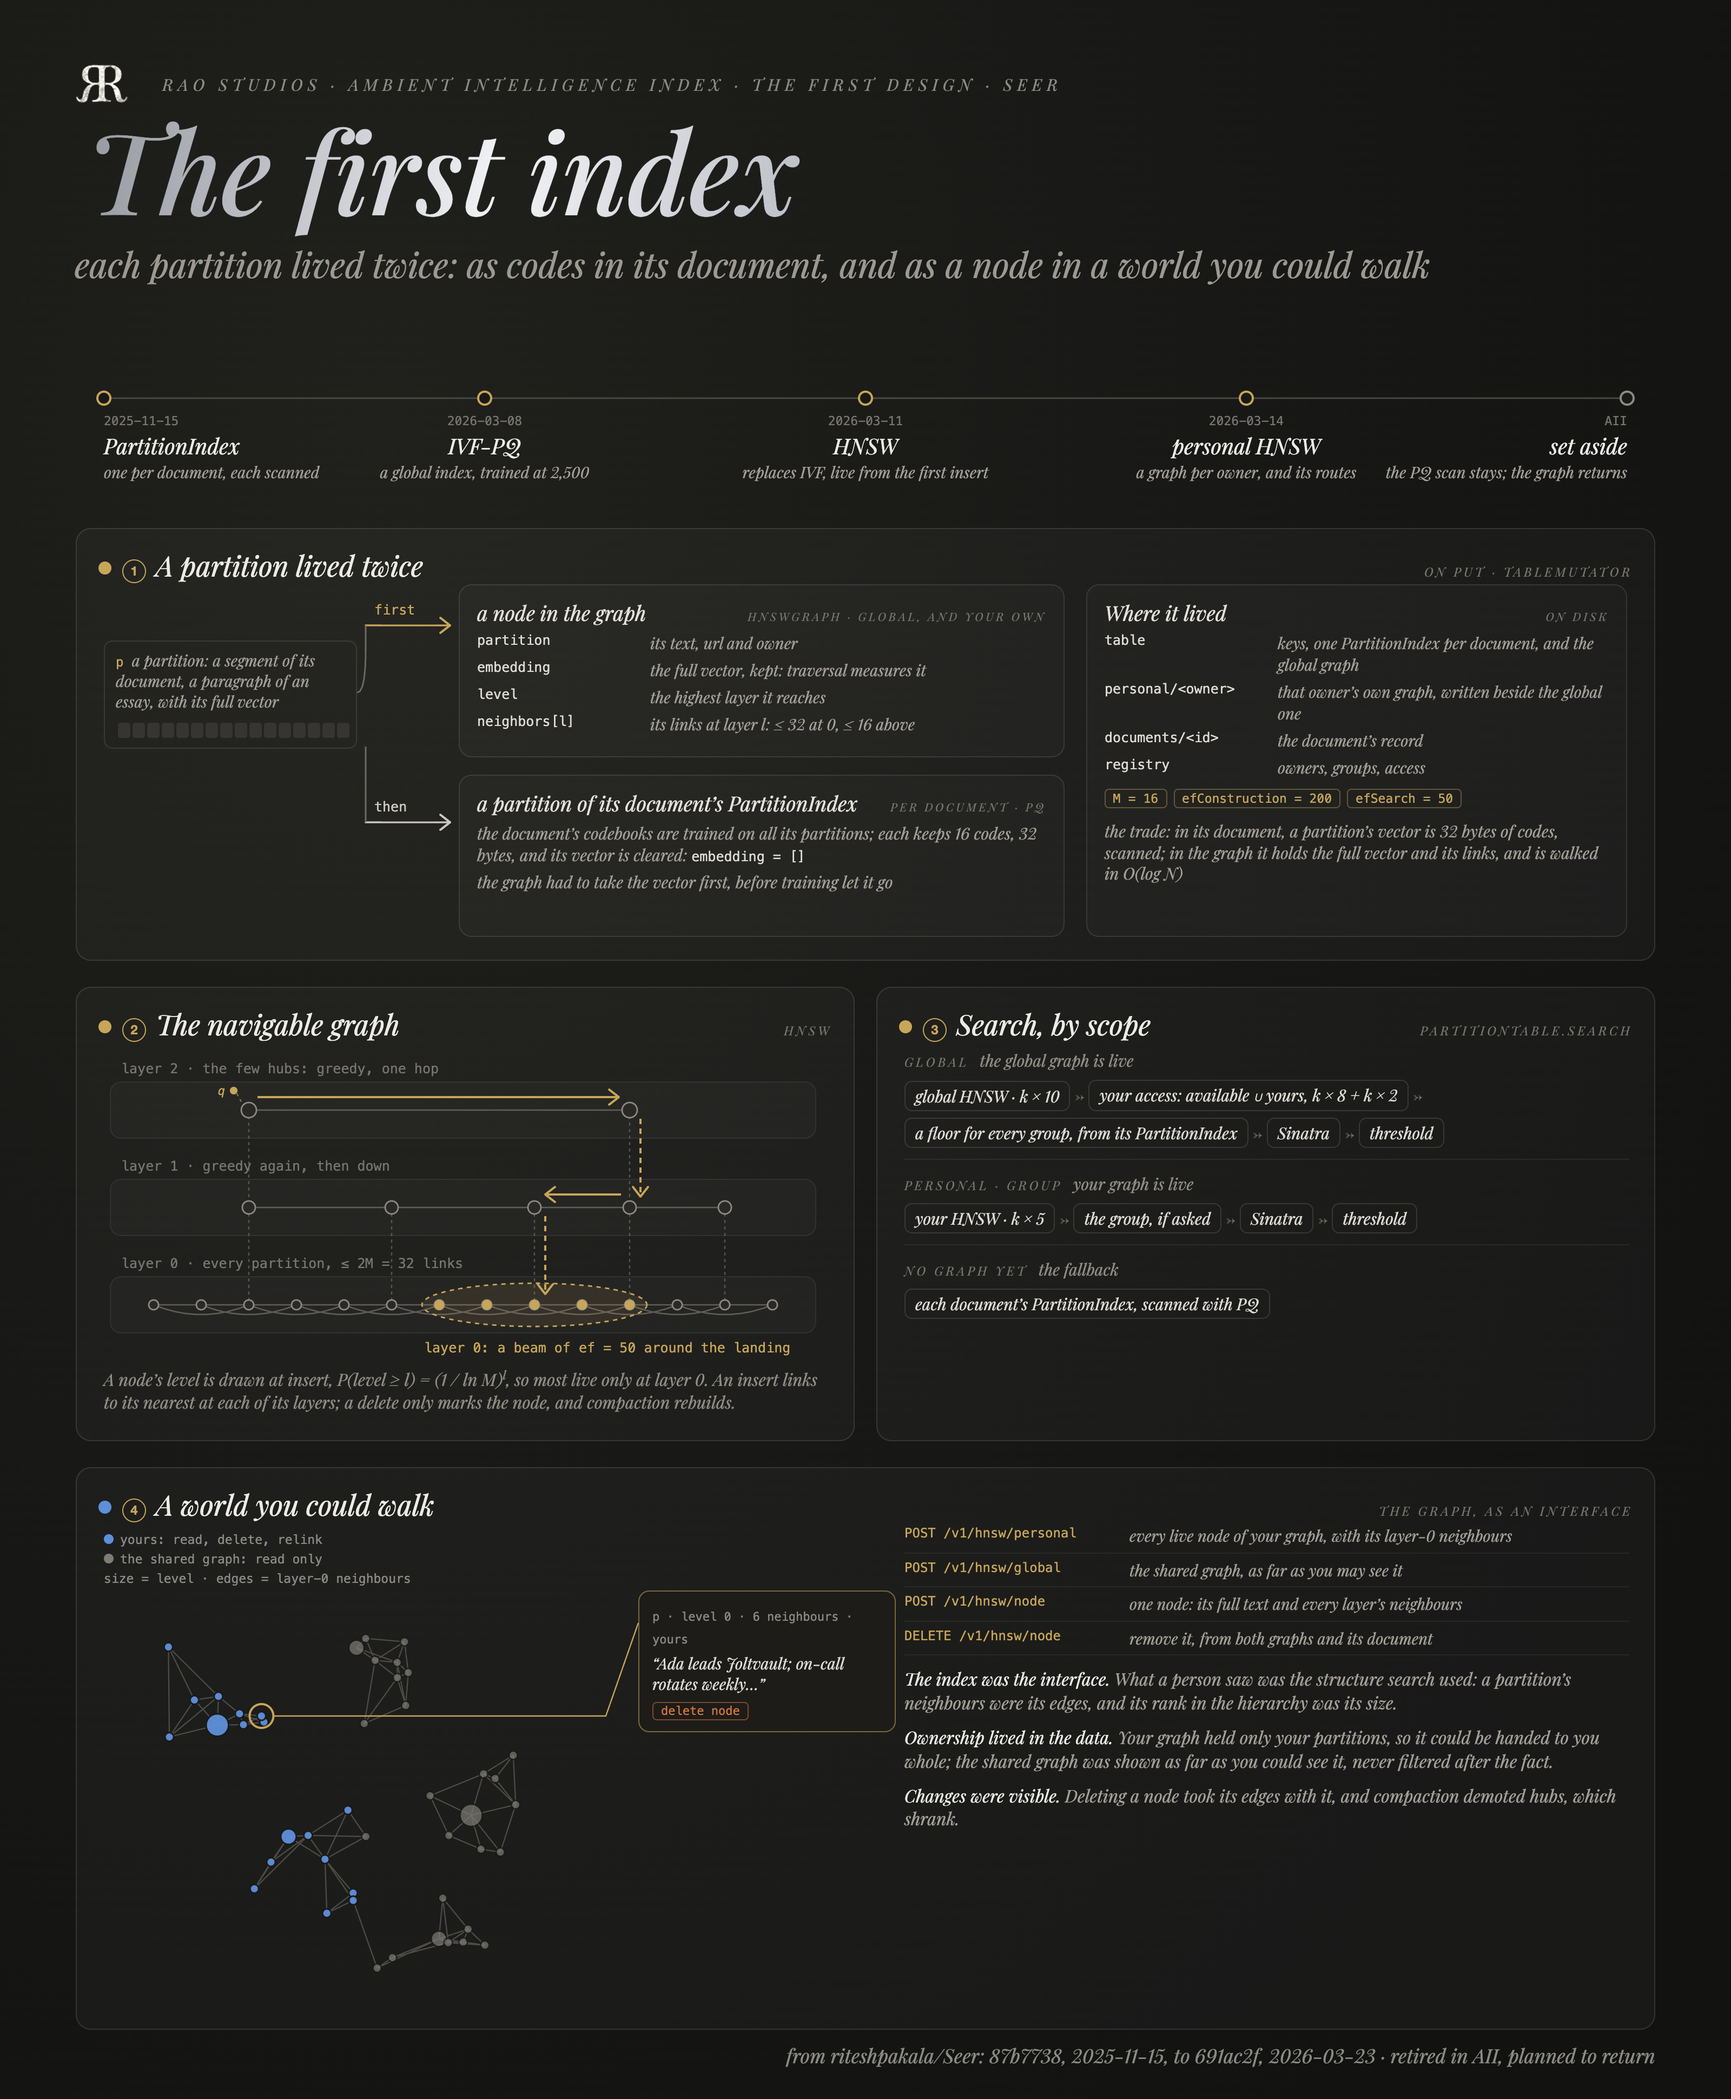
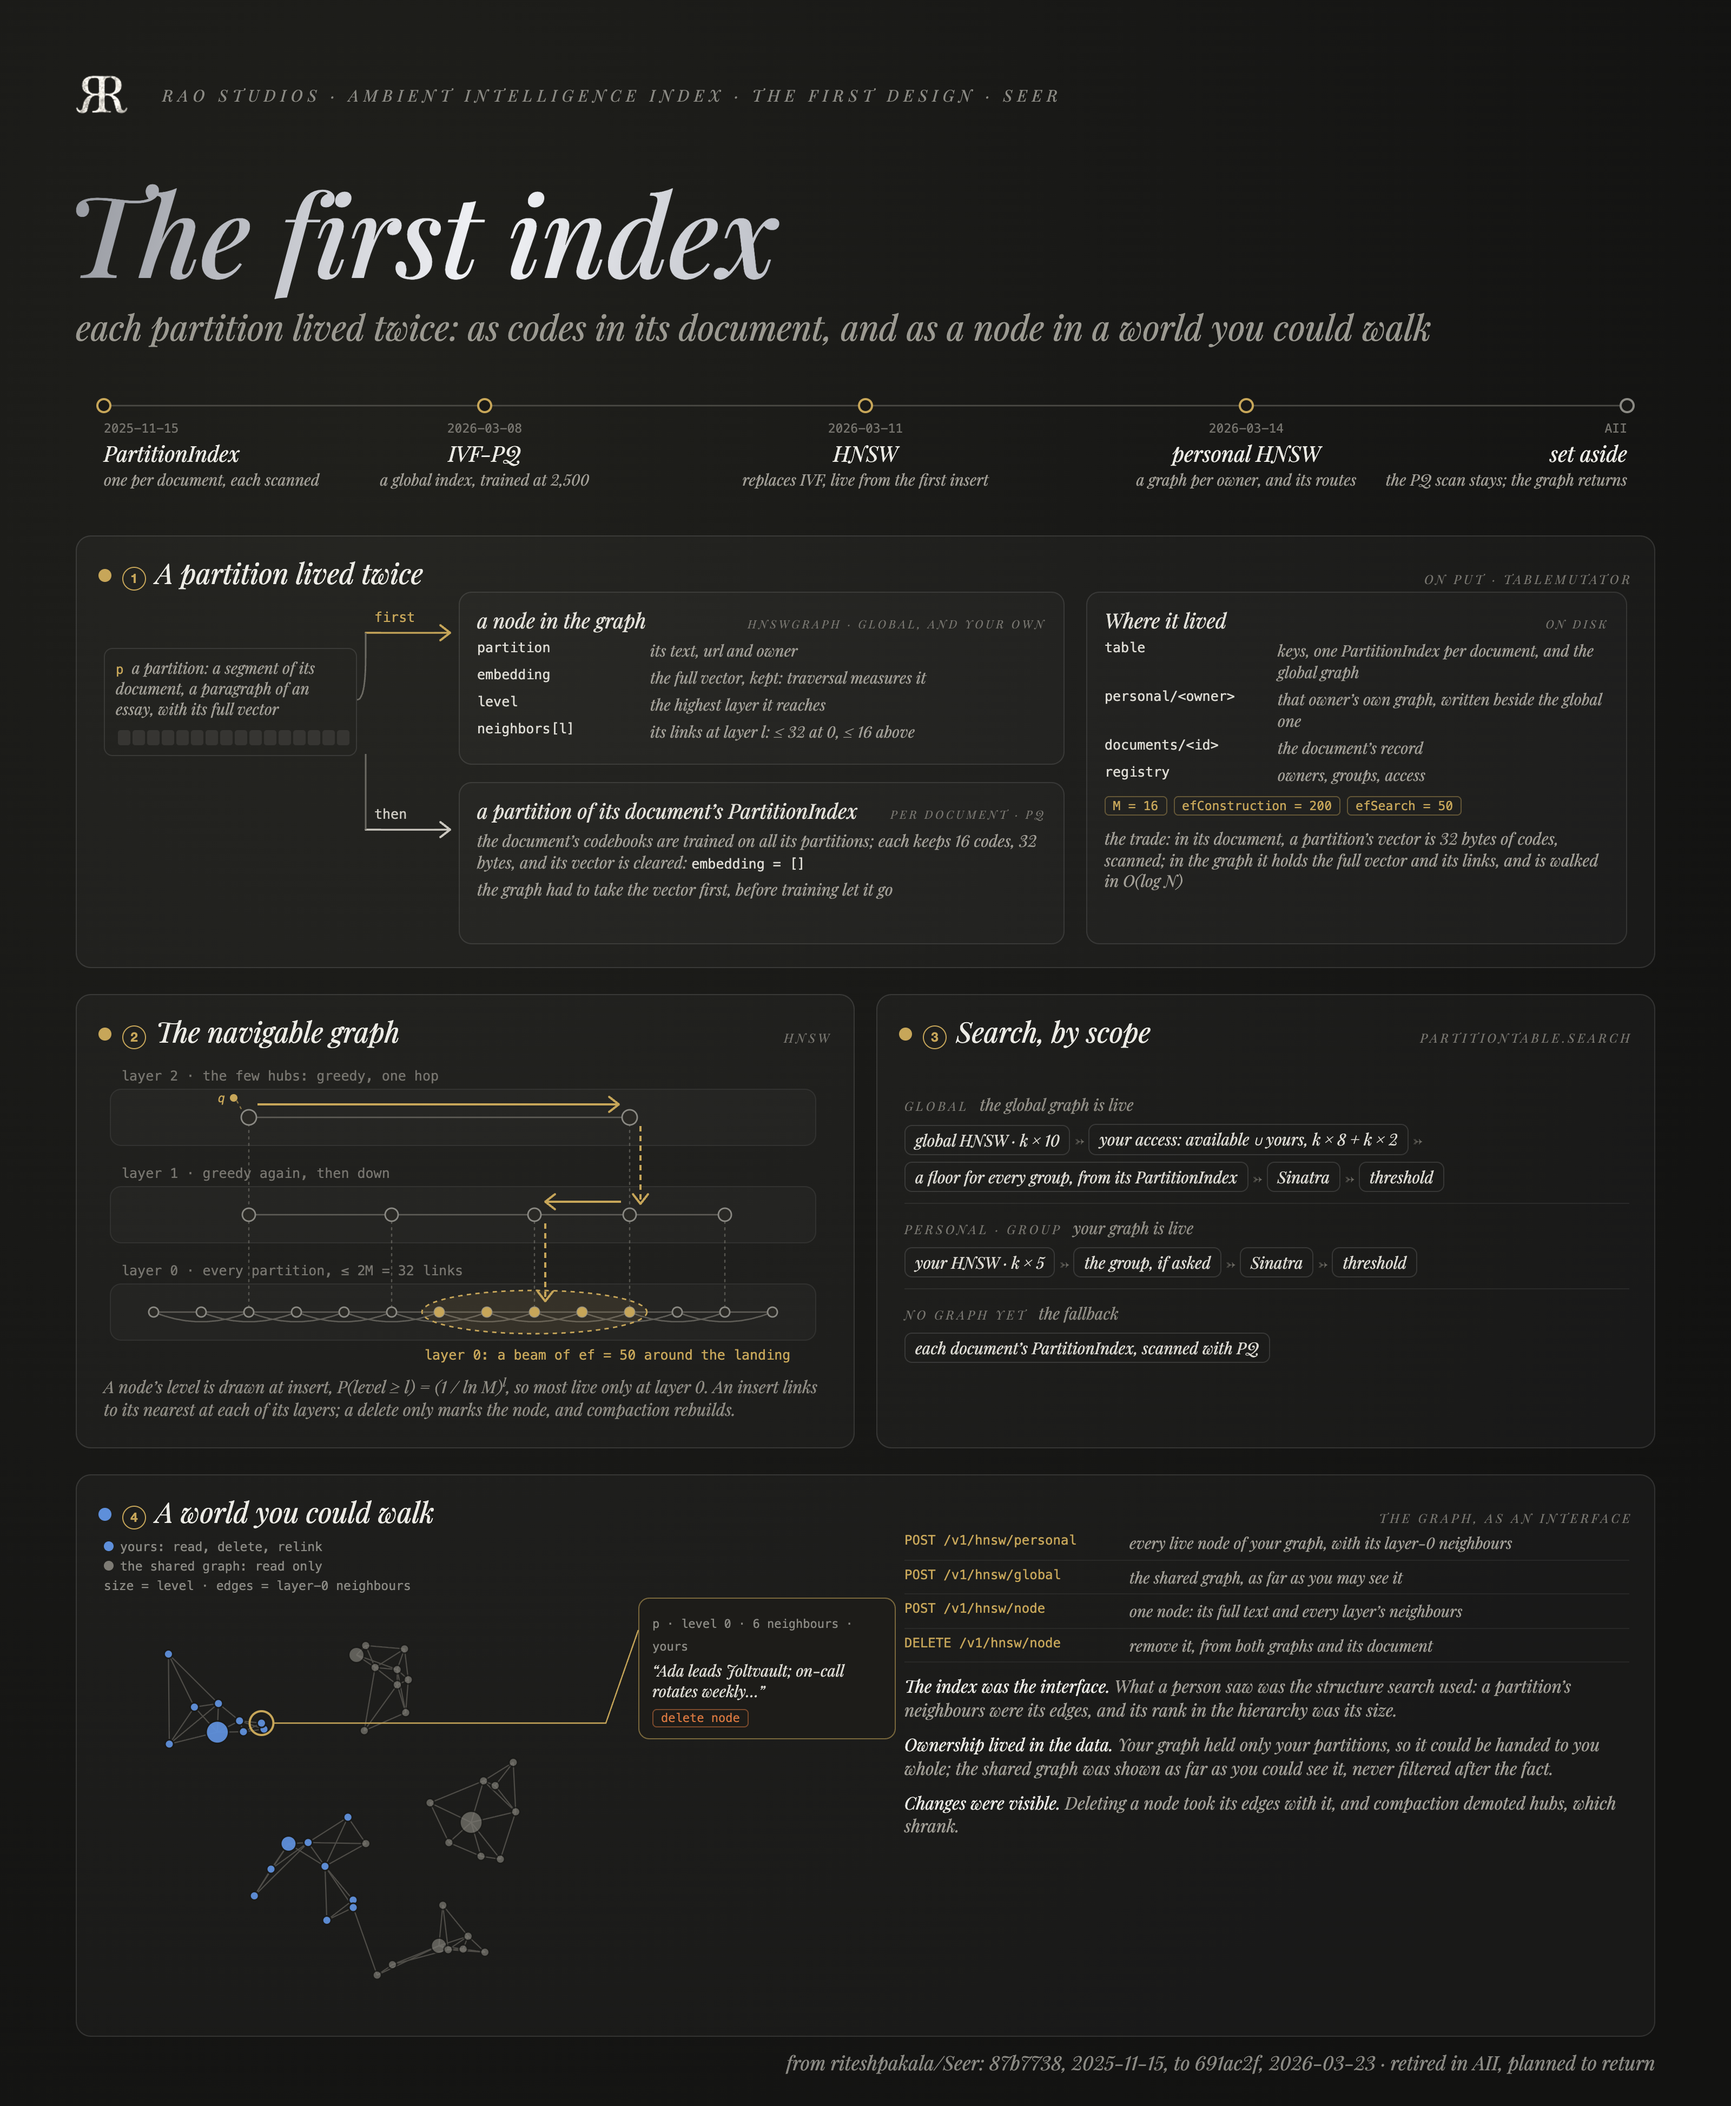
update header title alignment for graphics in readme assets and blog assets

diff --git a/Docs/README_Assets/src/plates.py b/Docs/README_Assets/src/plates.py
@@ -107,18 +107,61 @@ def steps(blocks, top):
     return f'<div class="steps" style="top:{top}px">{"".join(columns)}</div>'
 
 
+# The header's rhythm, shared by Rao's plates: the mark's ink sits 70 px from the top and the left; every
+# header line's ink starts at the mark's left edge (an italic first glyph overhangs by its own amount, so
+# the page measures it); the title's ink starts 70 px under the mark's; what follows starts HEADER_GAP px
+# under the subtitle's baseline, and the page grows or shrinks to keep its foot.
+INK, TITLE_INK, HEADER_GAP = 70.5, 174, 54
+HEADER_JS = """<script>
+document.fonts.ready.then(() => {
+  const ctx = document.createElement("canvas").getContext("2d");
+  const measure = (el) => {
+    const cs = getComputedStyle(el), text = el.textContent.trim();
+    ctx.font = `italic ${cs.fontWeight} ${cs.fontSize} Playfair`;
+    const probe = document.createElement("span");
+    probe.style.cssText = "display:inline-block; width:0; height:0";
+    el.prepend(probe);
+    const baseline = probe.getBoundingClientRect().bottom;
+    probe.remove();
+    return {left: parseFloat(cs.paddingLeft), top: parseFloat(cs.top), baseline,
+            ink: baseline - ctx.measureText(text).actualBoundingBoxAscent, overhang: ctx.measureText(text[0]).actualBoundingBoxLeft};
+  };
+  const title = document.querySelector(".title"), sub = document.querySelector(".sub");
+  const t = measure(title), s = measure(sub), dy = __TITLE_INK__ - t.ink;
+  for (const [el, m] of [[title, t], [sub, s]]) {
+    el.style.left = (__INK__ - m.left + m.overhang) + "px";
+    el.style.top = (m.top + dy) + "px";
+  }
+  const header = ".mark, .caption, .title, .sub, script, style", rest = [...document.body.children].filter((el) => !el.matches(header));
+  let first = Infinity;
+  for (const el of rest) {
+    const r = el.getBoundingClientRect();
+    if (el instanceof SVGSVGElement) {
+      const b = el.getBBox();
+      if (b.width || b.height) first = Math.min(first, r.top + b.y);
+    } else if (r.width && r.height) first = Math.min(first, r.top);
+  }
+  const shift = Math.round(s.baseline + dy + __GAP__ - first);
+  for (const el of rest) el.style.translate = `0 ${shift}px`;
+  const height = parseFloat(getComputedStyle(document.body).height) + shift;
+  document.documentElement.style.height = document.body.style.height = height + "px";
+  document.body.dataset.height = height;
+});
+</script>""".replace("__INK__", str(INK)).replace("__TITLE_INK__", str(TITLE_INK)).replace("__GAP__", str(HEADER_GAP))
+
+
 def plate(name, height, caption, title, sub, body, tag):
     page = f"""<!doctype html><html><head><meta charset="utf-8"><style>
 @font-face {{ font-family: "Playfair"; font-style: italic; font-weight: 400 900; src: url("file://{PLAYFAIR}") format("truetype"), local("Playfair Display Italic"); }}
 html, body {{ margin: 0; width: {W}px; height: {height}px; overflow: hidden; }}
 body {{ position: relative; font-family: "Playfair", Georgia, serif; font-style: italic; color: #a29f97; font-variant-numeric: lining-nums;
        background: radial-gradient(ellipse 90% 100% at 22% 20%, #20201c 0%, #191917 45%, #121211 100%); }}
-.mark {{ position: absolute; left: 62.5px; top: 50px; width: 64px; }}
-.caption {{ position: absolute; left: 150px; top: 68px; letter-spacing: .3em; font-size: 15px; color: #8b8a84; }}
-.title {{ position: absolute; left: 39.5px; padding-left: 40px; top: 104px; font-size: 104px; line-height: 1; font-weight: 500; letter-spacing: -.005em; padding-right: 30px; padding-bottom: 32px;
+.mark {{ position: absolute; left: 62.5px; top: 60px; width: 64px; }}
+.caption {{ position: absolute; left: 150px; top: 78px; letter-spacing: .3em; font-size: 15px; color: #8b8a84; }}
+.title {{ position: absolute; left: 39.5px; padding-left: 40px; top: 162px; font-size: 104px; line-height: 1; font-weight: 500; letter-spacing: -.005em; padding-right: 30px; padding-bottom: 32px;
          background: linear-gradient(100deg, #8d9097 0%, #c8cad0 35%, #f2f3f6 58%, #b6b9c1 100%);
          -webkit-background-clip: text; background-clip: text; color: transparent; white-space: nowrap; }}
-.sub {{ position: absolute; left: 69px; top: 222px; font-size: 32px; color: #9b9991; white-space: nowrap; }}
+.sub {{ position: absolute; left: 69px; top: 280px; font-size: 32px; color: #9b9991; white-space: nowrap; }}
 svg {{ position: absolute; left: 0; top: 0; }}
 .card {{ position: absolute; box-sizing: border-box; border: 1px solid rgba(255,255,255,.11); border-radius: 14px;
         background: rgba(255,255,255,.028); padding: 16px 20px; }}
@@ -160,6 +203,7 @@ svg {{ position: absolute; left: 0; top: 0; }}
 <div class="sub">{sub}</div>
 {body}
 <div class="tag">{tag}</div>
+{HEADER_JS}
 </body></html>"""
     return name, height, page
 
@@ -1729,7 +1773,9 @@ def main():
             try:
                 tab = browser.new_page(device_scale_factor=2, viewport={"width": W, "height": height})
                 tab.goto("file://" + source)
-                tab.wait_for_timeout(200)
+                tab.wait_for_selector("body[data-height]", state="attached")
+                tab.set_viewport_size({"width": W, "height": round(float(tab.evaluate("document.body.dataset.height")))})
+                tab.wait_for_timeout(100)
                 path = os.path.join(OUT, name)
                 tab.screenshot(path=path)
                 tab.close()
